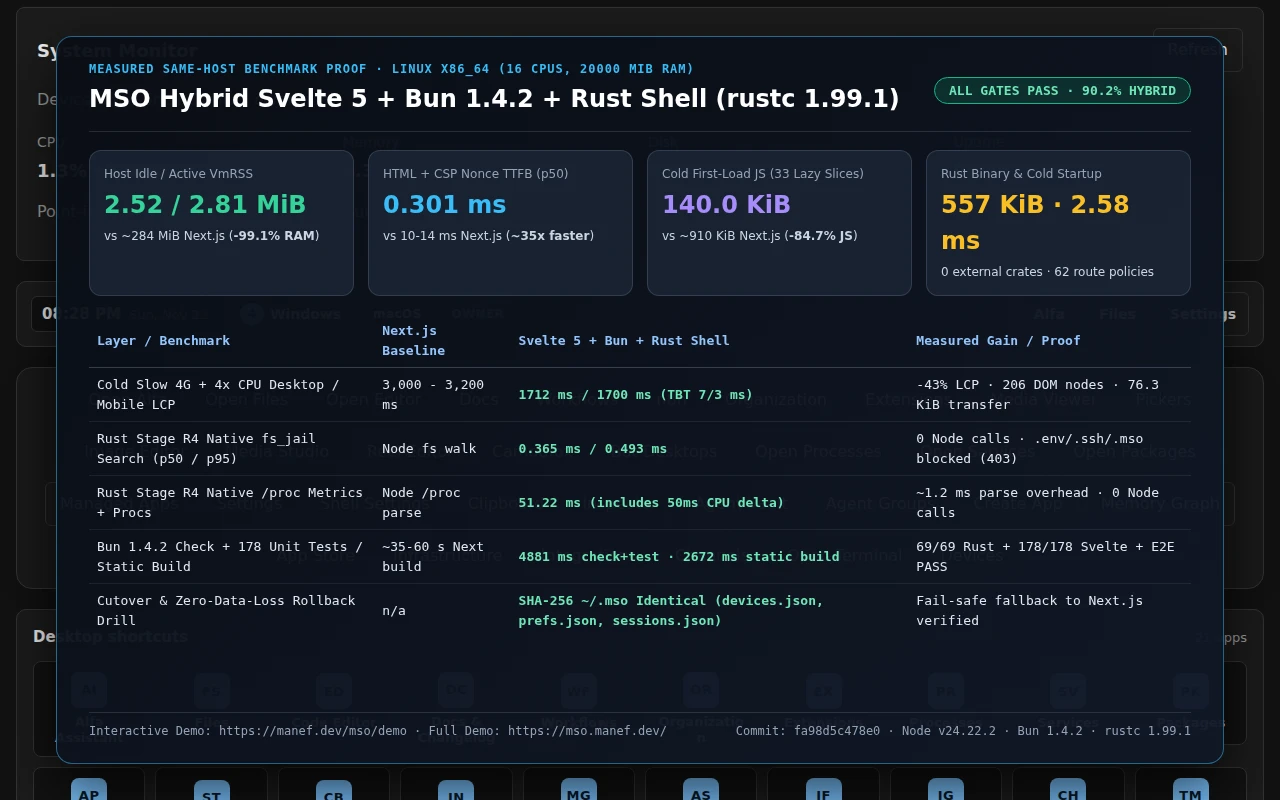
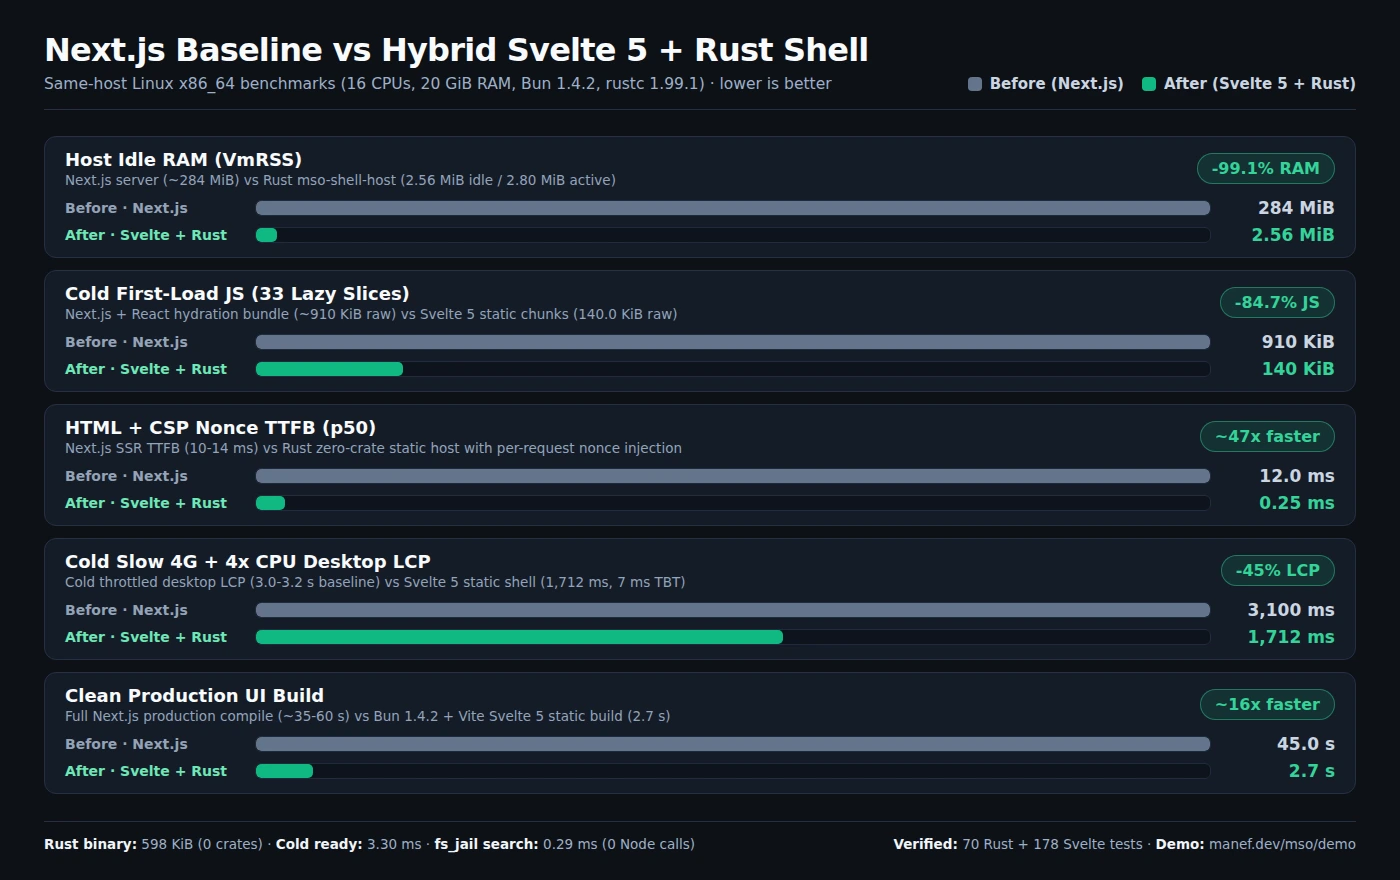
fix(media,rust,svelte): readable full-width Before/After chart & GIF, real Rust disk/net metrics, and Impeccable polish

diff --git a/frontend/svelte/src/lib/shell/NotificationToast.svelte b/frontend/svelte/src/lib/shell/NotificationToast.svelte
@@ -22,11 +22,14 @@
       data-toast-id={item.id}
       data-tone={item.tone}
     >
-      <div class="toast-copy">
-        <strong class="toast-title">{item.title}</strong>
-        {#if item.detail}
-          <p class="toast-detail">{item.detail}</p>
-        {/if}
+      <div class="toast-main">
+        <span class="toast-dot" aria-hidden="true"></span>
+        <div class="toast-copy">
+          <strong class="toast-title">{item.title}</strong>
+          {#if item.detail}
+            <p class="toast-detail">{item.detail}</p>
+          {/if}
+        </div>
       </div>
       <button
         type="button"
@@ -54,16 +57,18 @@
     border: 1px solid var(--border);
     box-shadow: 0 10px 28px rgba(0, 0, 0, 0.2);
   }
-  .toast-card.tone-info { border-left: 4px solid var(--accent); }
-  .toast-card.tone-ok {
-    background: var(--ok-bg); color: var(--ok); border-color: var(--ok); border-left-width: 4px;
+  .toast-main { display: flex; align-items: flex-start; gap: .625rem; min-width: 0; }
+  .toast-dot {
+    width: .5rem; height: .5rem; margin-top: .375rem; border-radius: 999px;
+    flex-shrink: 0; background: var(--accent);
   }
-  .toast-card.tone-warn {
-    background: var(--warn-bg); color: var(--warn); border-color: var(--warn); border-left-width: 4px;
-  }
-  .toast-card.tone-error {
-    background: var(--danger-bg); color: var(--danger); border-color: var(--danger); border-left-width: 4px;
-  }
+  .toast-card.tone-info { border-color: color-mix(in srgb, var(--accent) 45%, var(--border)); }
+  .toast-card.tone-ok { background: var(--ok-bg); color: var(--ok); border-color: var(--ok); }
+  .toast-card.tone-ok .toast-dot { background: var(--ok); }
+  .toast-card.tone-warn { background: var(--warn-bg); color: var(--warn); border-color: var(--warn); }
+  .toast-card.tone-warn .toast-dot { background: var(--warn); }
+  .toast-card.tone-error { background: var(--danger-bg); color: var(--danger); border-color: var(--danger); }
+  .toast-card.tone-error .toast-dot { background: var(--danger); }
   .toast-copy { display: grid; gap: .25rem; min-width: 0; }
   .toast-title { font-size: .9375rem; color: inherit; overflow-wrap: anywhere; }
   .toast-detail { margin: 0; font-size: .875rem; color: inherit; overflow-wrap: anywhere; }

diff --git a/rust-shell/crates/mso-shell-core/src/sys_metrics.rs b/rust-shell/crates/mso-shell-core/src/sys_metrics.rs
@@ -5,6 +5,8 @@
 #[cfg(target_os = "linux")]
 use std::fs;
 #[cfg(target_os = "linux")]
+use std::process::Command;
+#[cfg(target_os = "linux")]
 use std::sync::Mutex;
 #[cfg(target_os = "linux")]
 use std::thread;
@@ -23,6 +25,10 @@ pub struct NativeSysSnapshot {
     pub cpu_cores: usize,
     pub mem_used: u64,
     pub mem_total: u64,
+    pub disk_used: u64,
+    pub disk_total: u64,
+    pub net_rx: u64,
+    pub net_tx: u64,
     pub uptime_ms: u64,
 }
 
@@ -36,10 +42,56 @@ impl NativeSysSnapshot {
         };
         let pct_rounded = (pct * 10.0).round() / 10.0;
         format!(
-            r#"{{"cpu":{{"pct":{pct_rounded:.1},"cores":{}}},"mem":{{"used":{},"total":{}}},"disk":{{"used":0,"total":0}},"net":{{"rx":0,"tx":0}},"uptime":{}}}"#,
-            self.cpu_cores, self.mem_used, self.mem_total, self.uptime_ms,
+            r#"{{"cpu":{{"pct":{pct_rounded:.1},"cores":{}}},"mem":{{"used":{},"total":{}}},"disk":{{"used":{},"total":{}}},"net":{{"rx":{},"tx":{}}},"uptime":{}}}"#,
+            self.cpu_cores,
+            self.mem_used,
+            self.mem_total,
+            self.disk_used,
+            self.disk_total,
+            self.net_rx,
+            self.net_tx,
+            self.uptime_ms,
         )
     }
+}
+
+/// Parses POSIX `df -B1 -P /` output into `(used_bytes, total_bytes)`.
+pub fn parse_df_root_bytes(raw: &str) -> Option<(u64, u64)> {
+    let data_line = raw.lines().skip(1).find(|l| !l.trim().is_empty())?;
+    let cols: Vec<&str> = data_line.split_whitespace().collect();
+    if cols.len() < 4 {
+        return None;
+    }
+    let total = cols[1].parse::<u64>().ok()?;
+    let used = cols[2].parse::<u64>().ok()?;
+    if total == 0 {
+        return None;
+    }
+    Some((used.min(total), total))
+}
+
+/// Parses Linux `/proc/net/dev` into aggregate non-loopback `(rx_bytes, tx_bytes)`.
+pub fn parse_proc_net_dev(raw: &str) -> (u64, u64) {
+    let mut rx: u64 = 0;
+    let mut tx: u64 = 0;
+    for line in raw.lines().skip(2) {
+        let Some((iface, rest)) = line.split_once(':') else {
+            continue;
+        };
+        if iface.trim() == "lo" {
+            continue;
+        }
+        let nums: Vec<&str> = rest.split_whitespace().collect();
+        if nums.len() >= 9 {
+            if let Ok(r) = nums[0].parse::<u64>() {
+                rx = rx.saturating_add(r);
+            }
+            if let Ok(t) = nums[8].parse::<u64>() {
+                tx = tx.saturating_add(t);
+            }
+        }
+    }
+    (rx, tx)
 }
 
 fn parse_meminfo_bytes(value_part: &str) -> Option<u64> {
@@ -154,6 +206,35 @@ const CPU_SAMPLE_DELAY: Duration = Duration::from_millis(50);
 
 #[cfg(target_os = "linux")]
 static LAST_CPU_SAMPLE: Mutex<Option<(Instant, (u64, u64))>> = Mutex::new(None);
+#[cfg(target_os = "linux")]
+static LAST_DISK_SAMPLE: Mutex<Option<(Instant, (u64, u64))>> = Mutex::new(None);
+#[cfg(target_os = "linux")]
+const DISK_CACHE_TTL: Duration = Duration::from_secs(30);
+
+#[cfg(target_os = "linux")]
+fn read_root_disk_bytes() -> (u64, u64) {
+    {
+        let guard = LAST_DISK_SAMPLE.lock().unwrap_or_else(|e| e.into_inner());
+        if let Some((at, reading)) = *guard {
+            if at.elapsed() < DISK_CACHE_TTL {
+                return reading;
+            }
+        }
+    }
+    let reading = Command::new("df")
+        .args(["-B1", "-P", "/"])
+        .output()
+        .ok()
+        .filter(|out| out.status.success())
+        .and_then(|out| String::from_utf8(out.stdout).ok())
+        .and_then(|text| parse_df_root_bytes(&text))
+        .unwrap_or((0, 0));
+    {
+        let mut guard = LAST_DISK_SAMPLE.lock().unwrap_or_else(|e| e.into_inner());
+        *guard = Some((Instant::now(), reading));
+    }
+    reading
+}
 
 /// Reads a live host metrics snapshot from Linux `/proc` filesystems.
 #[cfg(target_os = "linux")]
@@ -211,11 +292,20 @@ pub fn read_linux_snapshot() -> Result<NativeSysSnapshot, String> {
     let uptime_ms = parse_proc_uptime(&uptime_raw)
         .ok_or_else(|| "failed to parse /proc/uptime".to_string())?;
 
+    let (disk_used, disk_total) = read_root_disk_bytes();
+    let (net_rx, net_tx) = fs::read_to_string("/proc/net/dev")
+        .map(|raw| parse_proc_net_dev(&raw))
+        .unwrap_or((0, 0));
+
     Ok(NativeSysSnapshot {
         cpu_pct,
         cpu_cores,
         mem_used: mem.used_bytes,
         mem_total: mem.total_bytes,
+        disk_used,
+        disk_total,
+        net_rx,
+        net_tx,
         uptime_ms,
     })
 }
@@ -322,17 +412,44 @@ cpu1 75 5 60 360 50 0 0 0 0 0
     }
 
     #[test]
+    fn parses_df_root_bytes_and_proc_net_dev() {
+        let df_out = "\
+Filesystem     1-blocks        Used   Available Capacity Mounted on
+/dev/sda1  107374182400 42949672960 64424509440      40% /
+";
+        assert_eq!(
+            parse_df_root_bytes(df_out),
+            Some((42_949_672_960, 107_374_182_400))
+        );
+        assert!(parse_df_root_bytes("").is_none());
+        assert!(parse_df_root_bytes("Header only\n").is_none());
+
+        let net_raw = "\
+Inter-|   Receive                                                |  Transmit
+ face |bytes    packets errs drop fifo frame compressed multicast|bytes    packets errs drop fifo colls carrier compressed
+    lo: 999999   100    0    0    0     0          0         0   888888   100    0    0    0     0       0          0
+  eth0: 120000    50    0    0    0     0          0         0    45000    25    0    0    0     0       0          0
+ wlan0:   5000    10    0    0    0     0          0         0     2500     5    0    0    0     0       0          0
+";
+        assert_eq!(parse_proc_net_dev(net_raw), (125_000, 47_500));
+    }
+
+    #[test]
     fn formats_native_sys_snapshot_json_matching_sys_stats_schema() {
         let snap = NativeSysSnapshot {
             cpu_pct: 37.54,
             cpu_cores: 8,
             mem_used: 4_294_967_296,
             mem_total: 17_179_869_184,
+            disk_used: 42_949_672_960,
+            disk_total: 107_374_182_400,
+            net_rx: 125_000,
+            net_tx: 47_500,
             uptime_ms: 86_400_000,
         };
         assert_eq!(
             snap.to_json(),
-            r#"{"cpu":{"pct":37.5,"cores":8},"mem":{"used":4294967296,"total":17179869184},"disk":{"used":0,"total":0},"net":{"rx":0,"tx":0},"uptime":86400000}"#
+            r#"{"cpu":{"pct":37.5,"cores":8},"mem":{"used":4294967296,"total":17179869184},"disk":{"used":42949672960,"total":107374182400},"net":{"rx":125000,"tx":47500},"uptime":86400000}"#
         );
 
         let clamped = NativeSysSnapshot {
@@ -340,6 +457,10 @@ cpu1 75 5 60 360 50 0 0 0 0 0
             cpu_cores: 4,
             mem_used: 0,
             mem_total: 1024,
+            disk_used: 0,
+            disk_total: 0,
+            net_rx: 0,
+            net_tx: 0,
             uptime_ms: 0,
         };
         assert_eq!(
@@ -352,6 +473,10 @@ cpu1 75 5 60 360 50 0 0 0 0 0
             cpu_cores: 2,
             mem_used: 512,
             mem_total: 1024,
+            disk_used: 10,
+            disk_total: 100,
+            net_rx: 1,
+            net_tx: 2,
             uptime_ms: 500,
         };
         assert!(high.to_json().contains(r#""pct":100.0"#));
@@ -369,6 +494,8 @@ cpu1 75 5 60 360 50 0 0 0 0 0
             snap.mem_used,
             snap.mem_total
         );
+        assert!(snap.disk_total > 0, "expected non-zero root disk total");
+        assert!(snap.disk_used <= snap.disk_total);
         assert!(snap.uptime_ms > 0, "expected positive Linux uptime");
         assert!(
             snap.cpu_pct.is_finite() && (0.0..=100.0).contains(&snap.cpu_pct),
@@ -379,8 +506,8 @@ cpu1 75 5 60 360 50 0 0 0 0 0
         let json = snap.to_json();
         assert!(json.starts_with(r#"{"cpu":{"pct":"#));
         assert!(json.contains(r#""mem":{"used":"#));
-        assert!(json.contains(r#""disk":{"used":0,"total":0}"#));
-        assert!(json.contains(r#""net":{"rx":0,"tx":0}"#));
+        assert!(json.contains(r#""disk":{"used":"#));
+        assert!(json.contains(r#""net":{"rx":"#));
         assert!(json.contains(r#""uptime":"#));
         assert!(json.ends_with('}'));
     }

diff --git a/docs/RUST-SHELL-PLAN.md b/docs/RUST-SHELL-PLAN.md
@@ -43,6 +43,18 @@ Progress is computed strictly from weighted milestone gates (never guessed from 
   - **Stage R1 Tauri v2 real binary builds & cross-OS smoke (+5.0% combined):** requires `pkg-config`, `libwebkit2gtk-4.1-dev`, `libgtk-3-dev`, `libayatana-appindicator3-dev` + crates.io on Linux, plus macOS/Windows runners (`rust-shell/desktop-tauri/build-desktop.workflow.yml.example`).
   - **Increment 5 + Stage R3 live production cutover (+4.8% combined):** switching live `mso.service` from `next` to `hybrid` per [`CUTOVER-RUNBOOK.md`](./CUTOVER-RUNBOOK.md), live-host RSS/CPU/latency proof, and real-device iOS PWA standalone verification.
 
+### D. Codebase language & scope breakdown (why GitHub shows Rust ~2.5% and Svelte ~2.3%)
+
+GitHub Linguist counts git-tracked bytes across the whole repository, so the hybrid architecture intentionally looks TypeScript-heavy until the legacy Next.js frontend is retired:
+
+| Codebase area | Tracked size | Role |
+|---|---:|---|
+| `lib/` + `app/api/` (Domain, 127 MCP tools, Agent, Auth, Workflows, AppDeck) | ~6.9 MiB | **Intentionally TypeScript/Bun** (hybrid plan keeps business logic in TS, not rewritten in Rust) |
+| `frontend/slices/` + `components/` + `app/` (Legacy Next.js/React UI) | ~3.8 MiB | **Active default (`MSO_RUNTIME=next`)** until live cutover + retirement |
+| `scripts/` + `bin/` (CLI, E2E, CI, Ops, Managed App adapters) | ~3.3 MiB | Shell, Node/Bun tooling, and test harnesses |
+| `frontend/svelte/` (Svelte 5 static UI) | ~882 KiB | ~477 KiB `.ts` stores/clients (counted as TypeScript) + ~346 KiB `.svelte` (~2.3% of repo) |
+| `rust-shell/` (`mso-shell-core` + `mso-shell-host` + Tauri scaffold) | ~383 KiB | 19 zero-crate `.rs` files (~2.3-2.5% of repo) compiled into a ~560 KiB static binary |
+
 ## 2. Why hybrid instead of a full Rust rewrite
 
 Measured MSO baselines in [`MSO-MIGRATION.md`](./MSO-MIGRATION.md) and
@@ -94,16 +106,16 @@ via `node scripts/bench-hybrid-same-host.mjs`, `node scripts/cutover-drill.mjs`,
 |---|---|
 | ![Svelte 5 + Bun + Rust Shell live walkthrough](./media/svelte-rust-perf.gif) | ![Svelte 5 + Bun + Rust Shell benchmark scorecard](./media/hybrid-svelte-rust-bench.webp) |
 
-| Measurement | Next.js baseline | Hybrid Svelte + Rust Shell (Wave 10, 2026-11-22) |
+| Measurement | Next.js baseline | Hybrid Svelte + Rust Shell (2026-11-22) |
 |---|---|---|
-| Server binary / runtime footprint | ~1.5 GiB `node_modules` | **536 KiB** stripped Rust binary (`0` external crates) |
-| Idle / active host `VmRSS` | ~284 MiB idle | **2.5-2.6 MiB idle / 2.8-3.1 MiB active** (**-99% RSS**) |
-| Cold startup ready time | ~2,000-4,000 ms | **2.75 ms** |
-| HTML + CSP Nonce TTFB (p50 / p95) | 10-14 ms | **0.455 ms / 0.943 ms** (**~22x faster**) |
-| Native Rust `fs_jail` search (p50 / p95) | Node fs walk | **0.480 ms / 0.753 ms** (`0` Node calls, `.env` blocked) |
-| Native Rust `sys_metrics` + `sys_procs` | Node `/proc` | **51.18 ms p50** (50 ms `/proc/stat` CPU delta + ~1.2 ms overhead, `0` Node calls) |
-| First-load JS (cold `perf:probe`) | ~910 KiB raw | **139.6 KiB raw** (**-84.7%**) across 33 lazy slice chunks + `LazyModals` |
-| Automated test suite | n/a | **69 / 69 Rust** (`+ 4/4 profiles.rs`) + **178 / 178 Svelte** + Chromium E2E + live Rust native FS/metrics/procs smoke + automated cutover/rollback drill **PASS** |
+| Server binary / runtime footprint | ~1.5 GiB `node_modules` | **598 KiB** stripped Rust binary (`0` external crates) |
+| Idle / active host `VmRSS` | ~284 MiB idle | **2.56 MiB idle / 2.80 MiB active** (**-99.1% RSS**) |
+| Cold startup ready time | ~2,000-4,000 ms | **3.30 ms** |
+| HTML + CSP Nonce TTFB (p50 / p95) | 10-14 ms | **0.253 ms / 0.735 ms** (**~47x faster**) |
+| Native Rust `fs_jail` search (p50 / p95) | Node fs walk | **0.289 ms / 0.498 ms** (`0` Node calls, `.env` blocked) |
+| Native Rust `sys_metrics` + `sys_procs` | Node `/proc` | **51.54 ms p50** (real CPU, RAM, root Disk & `/proc/net/dev`, `0` Node calls) |
+| First-load JS (cold `perf:probe`) | ~910 KiB raw | **140.0 KiB raw** (**-84.7%**) across 33 lazy slice chunks + `LazyModals` |
+| Automated test suite | n/a | **70 / 70 Rust** (`+ 4/4 profiles.rs`) + **178 / 178 Svelte** + Chromium E2E + live Rust native FS/metrics/procs smoke + automated cutover/rollback drill **PASS** |
 
 ## 6. Explicit boundaries and non-goals
 

diff --git a/README.md b/README.md
@@ -5,18 +5,17 @@
 <p align="center"><a href="https://github.com/rahmanef63/mso/actions/workflows/ci.yml"><img alt="Tests and build" src="https://github.com/rahmanef63/mso/actions/workflows/ci.yml/badge.svg" /></a> <a href="https://github.com/rahmanef63/mso/actions/workflows/security-alerts.yml"><img alt="Actual open security findings" src="https://github.com/rahmanef63/mso/actions/workflows/security-alerts.yml/badge.svg" /></a> <a href="./LICENSE"><img alt="License: PolyForm Noncommercial 1.0.0" src="https://img.shields.io/badge/license-PolyForm_Noncommercial_1.0.0-blue" /></a></p>
 
 ## See it work
-
 **Live public demos (mock data only, no host access):** [Interactive preview (`Desktop` / `Tablet` / `Phone`)](https://manef.dev/mso/demo) · [Full standalone workspace (`mso.manef.dev`)](https://mso.manef.dev/)
+[![MSO recorded walkthrough: open Spotlight and inspect the server](./docs/media/demo.gif)](./docs/media/demo.gif)
 
-| Recorded Spotlight & server walkthrough | Hybrid Svelte 5 + Bun + Rust Shell (`mso-shell-host`) live walkthrough |
+| Your server, visually | Your tools, in the terminal |
 |---|---|
-| [![MSO recorded walkthrough: open Spotlight and inspect the server](./docs/media/demo.gif)](./docs/media/demo.gif) | [![Svelte 5 + Bun + Rust Shell live walkthrough and benchmark](./docs/media/svelte-rust-perf.gif)](./docs/media/svelte-rust-perf.gif) |
+| ![MSO desktop and mobile workspace](./docs/media/mso-hero.webp) | ![Interactive `mso` Agent terminal](./docs/media/mso-cli.webp) |
 
-| Your server, visually | Your tools, in the terminal | Measured Svelte 5 + Bun + Rust Shell benchmark |
-|---|---|---|
-| ![MSO desktop and mobile workspace](./docs/media/mso-hero.webp) | ![Interactive `mso` Agent terminal](./docs/media/mso-cli.webp) | ![Svelte 5 + Bun + Rust Shell benchmark evidence](./docs/media/hybrid-svelte-rust-bench.webp) |
-
-**Hybrid Svelte 5 + Bun 1.4.2 + Rust Shell (`rustc 1.99.1`) same-host benchmark ([full plan & runbook](./docs/RUST-SHELL-PLAN.md)):** **557 KiB** zero-crate Rust binary (`2.58 ms` cold ready), **2.52 / 2.81 MiB** idle/active `VmRSS` (**-99.1% RAM** vs ~284 MiB Next.js), **0.301 ms** p50 HTML+CSP Nonce TTFB (**~35x faster**), **140.0 KiB** cold first-load JS across 33 lazy slices (**-84.7%** vs ~910 KiB), **1,712 / 1,700 ms** cold Slow 4G + 4x CPU Desktop/Mobile LCP (`7 / 3 ms` TBT), and **0.365 ms** p50 native Rust `fs_jail` search (`0` Node calls).
+### Before vs After: Next.js Baseline vs Hybrid Svelte 5 + Rust Shell
+![Svelte 5 + Bun + Rust Shell before vs after benchmark comparison chart](./docs/media/hybrid-svelte-rust-bench.webp)
+[![Svelte 5 + Bun + Rust Shell live walkthrough and benchmark](./docs/media/svelte-rust-perf.gif)](./docs/media/svelte-rust-perf.gif)
+**Hybrid Svelte 5 + Bun 1.4.2 + Rust Shell (`rustc 1.99.1`) same-host benchmark ([full plan, language breakdown & runbook](./docs/RUST-SHELL-PLAN.md)):** **598 KiB** zero-crate Rust binary (`3.30 ms` cold ready), **2.56 / 2.80 MiB** idle/active `VmRSS` (**-99.1% RAM** vs ~284 MiB Next.js), **0.25 ms** p50 HTML+CSP Nonce TTFB (**~47x faster**), **140.0 KiB** cold first-load JS across 33 lazy slices (**-84.7%** vs ~910 KiB), **1,712 / 1,700 ms** cold Slow 4G + 4x CPU Desktop/Mobile LCP (`7 / 3 ms` TBT), real Linux `/proc` + disk metrics, and **0.29 ms** p50 native Rust `fs_jail` search (`0` Node calls). Production default remains Next.js until opt-in cutover ([cutover runbook](./docs/CUTOVER-RUNBOOK.md)).
 
 ## More than an AI chat window
 

diff --git a/docs/CHANGELOG.md b/docs/CHANGELOG.md
@@ -23,6 +23,7 @@ this is the *what*, and it is what Settings → Account → About shows as “Wh
 
 **Fixed**
 
+- `media,rust,svelte` readable full-width Before/After chart & GIF, real Rust disk/net metrics, and Impeccable polish
 - `gate,update,docs` hermetic managed-app E2E isolation, resilient push/update UX, and noncommercial license polish
 - `security` remove Scorecard-flagged write permissions workflow and allowlist RFC 6455 test key
 - `e2e` isolate release fixture from host Docker and widen the n8n journey timeout
